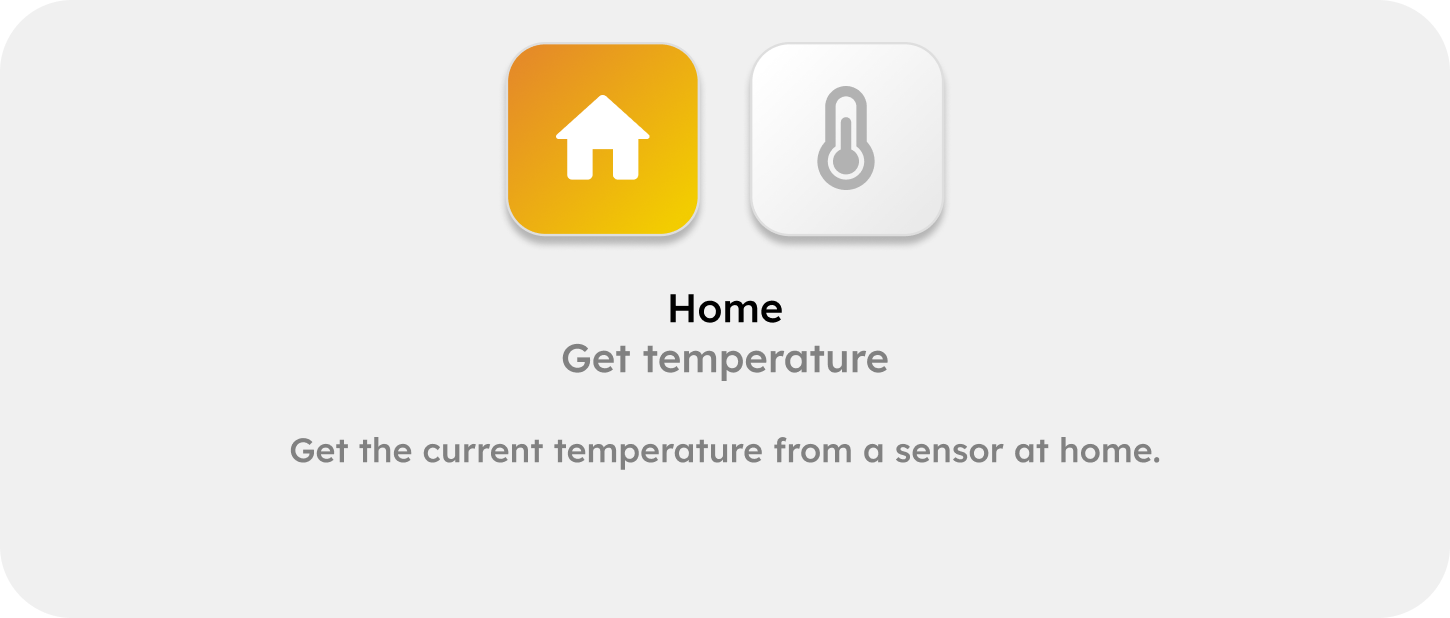
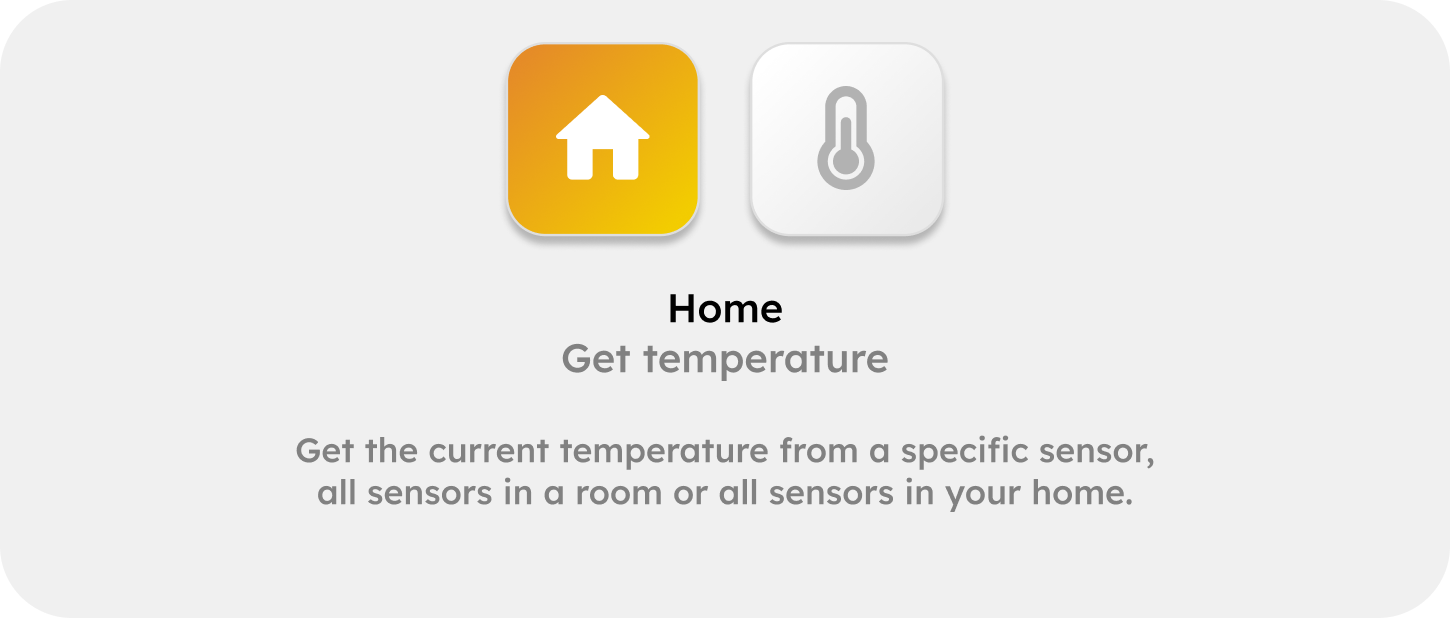
added home endpoints to docs

Changed region(s): [[0.1862, 0.7071, 0.8069, 0.8301]]

diff --git a/server/api/docs/docs.py b/server/api/docs/docs.py
@@ -209,6 +209,54 @@ def custom_openapi(app: FastAPI):
     set_example(openapi_schema, "/v1/{team_slug}/apps/web/view", "post", "responses", {
         "Example 1": web_view_output_example
     }, "200")
+    set_example(openapi_schema, "/v1/{team_slug}/apps/home/get_all_devices", "post", "requestBody", {
+        "Example 1": home_get_all_devices_input_example
+    })
+    set_example(openapi_schema, "/v1/{team_slug}/apps/home/get_all_devices", "post", "responses", {
+        "Example 1": home_get_all_devices_output_example
+    }, "200")
+    set_example(openapi_schema, "/v1/{team_slug}/apps/home/get_all_scenes", "post", "requestBody", {
+        "Example 1": home_get_all_scenes_input_example
+    })
+    set_example(openapi_schema, "/v1/{team_slug}/apps/home/get_all_scenes", "post", "responses", {
+        "Example 1": home_get_all_scenes_output_example
+    }, "200")
+    set_example(openapi_schema, "/v1/{team_slug}/apps/home/get_temperature", "post", "requestBody", {
+        "Example 1": home_get_temperature_input_example
+    })
+    set_example(openapi_schema, "/v1/{team_slug}/apps/home/get_temperature", "post", "responses", {
+        "Example 1": home_get_temperature_output_example
+    }, "200")
+    set_example(openapi_schema, "/v1/{team_slug}/apps/home/add_device", "post", "requestBody", {
+        "Example 1": home_add_device_input_example
+    })
+    set_example(openapi_schema, "/v1/{team_slug}/apps/home/add_device", "post", "responses", {
+        "Example 1": home_add_device_output_example
+    }, "200")
+    set_example(openapi_schema, "/v1/{team_slug}/apps/home/add_scene", "post", "requestBody", {
+        "Example 1": home_add_scene_input_example
+    })
+    set_example(openapi_schema, "/v1/{team_slug}/apps/home/add_scene", "post", "responses", {
+        "Example 1": home_add_scene_output_example
+    }, "200")
+    set_example(openapi_schema, "/v1/{team_slug}/apps/home/set_device", "post", "requestBody", {
+        "Example 1": home_set_device_input_example
+    })
+    set_example(openapi_schema, "/v1/{team_slug}/apps/home/set_device", "post", "responses", {
+        "Example 1": home_set_device_output_example
+    }, "200")
+    set_example(openapi_schema, "/v1/{team_slug}/apps/home/set_scene", "post", "requestBody", {
+        "Example 1": home_set_scene_input_example
+    })
+    set_example(openapi_schema, "/v1/{team_slug}/apps/home/set_scene", "post", "responses", {
+        "Example 1": home_set_scene_output_example
+    }, "200")
+    set_example(openapi_schema, "/v1/{team_slug}/apps/home/get_power_consumption", "post", "requestBody", {
+        "Example 1": home_get_power_consumption_input_example
+    })
+    set_example(openapi_schema, "/v1/{team_slug}/apps/home/get_power_consumption", "post", "responses", {
+        "Example 1": home_get_power_consumption_output_example
+    }, "200")
     set_example(openapi_schema, "/v1/{team_slug}/apps/business/create_pitch", "post", "requestBody", {
         "Example 1": business_create_pitch_input_example
     })

diff --git a/server/api/models/apps/home/skills_home_get_all_scenes.py b/server/api/models/apps/home/skills_home_get_all_scenes.py
@@ -1,0 +1,52 @@
+from pydantic import BaseModel, Field, model_validator
+from typing import List, Optional
+
+class Home(BaseModel):
+    id: Optional[str] = Field(None, description="The id of the home")
+    name: Optional[str] = Field(None, description="The name of the home")
+
+    @model_validator(mode='before')
+    def validate_home(cls, data):
+        if not data.get('id') and not data.get('name'):
+            raise ValueError("Home must have either an id or name")
+        return data
+
+class HomeGetAllScenesInput(BaseModel):
+    home: Home = Field(..., description="The home to get the scenes for")
+
+home_get_all_scenes_input_example = {
+    "home": {
+        "name": "My Smart Home"
+    }
+}
+
+
+class Scene(BaseModel):
+    id: str = Field(..., description="The id of the scene")
+    name: str = Field(..., description="The name of the scene")
+    description: Optional[str] = Field(None, description="The description of the scene")
+
+class HomeGetAllScenesOutput(BaseModel):
+    scenes: List[Scene] = Field(..., description="The list of scenes in the home")
+
+
+
+home_get_all_scenes_output_example = {
+    "scenes": [
+        {
+            "id": "1",
+            "name": "Watch a movie",
+            "description": "Set the scene to watch a movie in the living room."
+        },
+        {
+            "id": "2",
+            "name": "Party mode",
+            "description": "Set the scene to party mode in the living room."
+        },
+        {
+            "id": "3",
+            "name": "Sleep mode",
+            "description": "Set the scene to sleep mode in the bedroom."
+        }
+    ]
+}

diff --git a/server/api/docs/__init__.py b/server/api/docs/__init__.py
@@ -67,6 +67,30 @@ from server.api.models.apps.web.skills_web_read import (
 from server.api.models.apps.web.skills_web_view import (
     web_view_input_example, web_view_output_example
 )
+from server.api.models.apps.home.skills_home_add_device import (
+    home_add_device_input_example, home_add_device_output_example
+)
+from server.api.models.apps.home.skills_home_add_scene import (
+    home_add_scene_input_example, home_add_scene_output_example
+)
+from server.api.models.apps.home.skills_home_get_all_devices import (
+    home_get_all_devices_input_example, home_get_all_devices_output_example
+)
+from server.api.models.apps.home.skills_home_get_all_scenes import (
+    home_get_all_scenes_input_example, home_get_all_scenes_output_example
+)
+from server.api.models.apps.home.skills_home_get_temperature import (
+    home_get_temperature_input_example, home_get_temperature_output_example
+)
+from server.api.models.apps.home.skills_home_get_power_consumption import (
+    home_get_power_consumption_input_example, home_get_power_consumption_output_example
+)
+from server.api.models.apps.home.skills_home_set_device import (
+    home_set_device_input_example, home_set_device_output_example
+)
+from server.api.models.apps.home.skills_home_set_scene import (
+    home_set_scene_input_example, home_set_scene_output_example
+)
 from server.api.models.apps.business.skills_business_create_pitch import (
     business_create_pitch_input_example, business_create_pitch_output_example
 )

diff --git a/server/api/docs/parameters.py b/server/api/docs/parameters.py
@@ -83,6 +83,9 @@ from server.api.models.apps.home.skills_home_get_power_consumption import (
 from server.api.models.apps.home.skills_home_get_all_devices import (
     HomeGetAllDevicesOutput
 )
+from server.api.models.apps.home.skills_home_get_all_scenes import (
+    HomeGetAllScenesOutput
+)
 from server.api.models.apps.home.skills_home_add_scene import (
     HomeAddSceneOutput
 )
@@ -362,6 +365,12 @@ skills_home_endpoints = {
         "summary": "Skill | Get all devices",
         "description": "<img src='docs/images/apps/home/get_all_devices.png' alt='Get a list of all devices in your home. You can also filter for device categories or rooms.'>",
         "responses": generate_responses([200, 400, 401, 403, 404, 422, 500])
+    },
+    "get_all_scenes":{
+        "response_model":HomeGetAllScenesOutput,
+        "summary": "Skill | Get all scenes",
+        "description": "<img src='docs/images/apps/home/get_all_scenes.png' alt='Get a list of all scenes in your home.'>",
+        "responses": generate_responses([200, 400, 401, 403, 404, 422, 500])
     }
 }
 
@@ -633,7 +642,7 @@ tags_metadata = [
     },
     {
         "name": "Apps | Home",
-        "description": "<img src='docs/images/apps/home.png' alt='Control your smart home, organize daily tasks and more.'>"
+        "description": "<img src='docs/images/apps/home.png' alt='Control your smart home, organize daily tasks and more. Providers: Home Assistant, Tasmota'>"
     },
     {
         "name": "Apps | Web",

diff --git a/server/api/__init__.py b/server/api/__init__.py
@@ -101,6 +101,9 @@ from server.api.models.apps.home.skills_home_get_power_consumption import (
 from server.api.models.apps.home.skills_home_get_all_devices import (
     HomeGetAllDevicesInput, HomeGetAllDevicesOutput
 )
+from server.api.models.apps.home.skills_home_get_all_scenes import (
+    HomeGetAllScenesInput, HomeGetAllScenesOutput
+)
 from server.api.models.apps.home.skills_home_add_scene import (
     HomeAddSceneInput, HomeAddSceneOutput
 )
@@ -160,6 +163,7 @@ from server.api.endpoints.apps.audio.generate_transcript import generate_transcr
 from server.api.endpoints.apps.web.read import read as skill_web_read_processing
 from server.api.endpoints.apps.web.view import view as skill_web_view_processing
 from server.api.endpoints.apps.home.get_all_devices import get_all_devices as skill_home_get_all_devices_processing
+from server.api.endpoints.apps.home.get_all_scenes import get_all_scenes as skill_home_get_all_scenes_processing
 from server.api.endpoints.apps.home.add_device import add_device as skill_home_add_device_processing
 from server.api.endpoints.apps.home.add_scene import add_scene as skill_home_add_scene_processing
 from server.api.endpoints.apps.home.set_scene import set_scene as skill_home_set_scene_processing

diff --git a/server/api/api.py b/server/api/api.py
@@ -786,6 +786,27 @@ async def skill_home_get_all_devices(
     )
 
 
+# POST /apps/home/get_all_scenes (get all scenes at home)
+@skills_home_router.post("/v1/{team_slug}/apps/home/get_all_scenes", **skills_home_endpoints["get_all_scenes"])
+@limiter.limit("20/minute")
+async def skill_home_get_all_scenes(
+    request: Request,
+    parameters: HomeGetAllScenesInput,
+    team_slug: str = Path(..., **input_parameter_descriptions["team_slug"]),
+    token: str = Depends(get_credentials)
+) -> HomeGetAllScenesOutput:
+    await validate_permissions(
+        endpoint="/apps/home/get_all_scenes",
+        team_slug=team_slug,
+        user_api_token=token
+    )
+    return await skill_home_get_all_scenes_processing(
+        team_slug=team_slug,
+        api_token=token,
+        input=parameters
+    )
+
+
 # POST /apps/home/add_device (add a device to the smart home)
 @skills_home_router.post("/v1/{team_slug}/apps/home/add_device", **skills_home_endpoints["add_device"])
 @limiter.limit("20/minute")

diff --git a/server/api/endpoints/apps/home/get_all_scenes.py b/server/api/endpoints/apps/home/get_all_scenes.py
@@ -1,0 +1,27 @@
+from fastapi import HTTPException
+import logging
+from server.api.models.apps.home.skills_home_get_all_scenes import (
+    HomeGetAllScenesInput,
+    HomeGetAllScenesOutput
+)
+
+logger = logging.getLogger(__name__)
+
+
+async def get_all_scenes(
+    team_slug: str,
+    api_token: str,
+    input: HomeGetAllScenesInput
+) -> HomeGetAllScenesOutput:
+    try:
+        logger.debug("Getting all scenes")
+
+        # TODO add processing via MQTT
+
+        scenes =[]
+
+        logger.debug("Got all scenes")
+        return HomeGetAllScenesOutput(scenes=scenes)
+    except Exception:
+        logger.exception("Error getting all scenes")
+        raise HTTPException(status_code=500, detail="An error occurred while getting all scenes")

diff --git a/server/api/models/apps/home/skills_home_add_scene.py b/server/api/models/apps/home/skills_home_add_scene.py
@@ -1,6 +1,6 @@
 from pydantic import BaseModel, Field
-from typing import Optional, List, Literal
-from skills_home_set_device import HomeSetDeviceInput
+from typing import Optional, List
+from server.api.models.apps.home.skills_home_set_device import HomeSetDeviceInput
 
 
 class HomeAddSceneInput(BaseModel):
